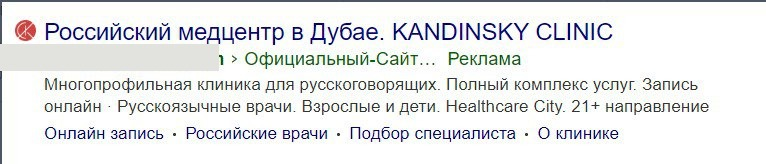
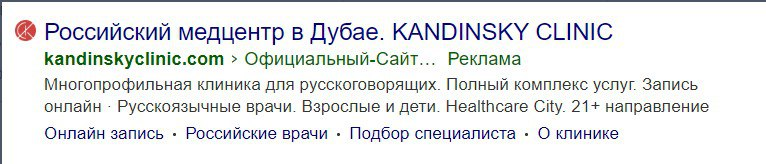
Кейс "Клиника в Дубае": оригиналы без замазывания, порядок слайдов, лайтбокс
По просьбе заказчика:
- скрины конкурентов и наших объявлений Директа/Google заменены на
  оригиналы без замазывания домена/логотипа конкурента;
- в галерее конкурентов второй слайд (по порядку показа) переставлен
  в конец;
- скрин главного экрана сайта клиники переснят: номер телефона теперь
  закрыт точно по границам цифр, а не грубым прямоугольником поверх
  иконки и рамки кнопки;
- скрины "Кампании в кабинете Яндекс Директа" и "...Google Ads"
  открываются в полный размер по клику.

Changed region(s): [[0.0, 0.2439, 0.3003, 0.4573]]

diff --git a/cases/klinika-dubai.html b/cases/klinika-dubai.html
@@ -202,8 +202,8 @@
         <div class="ab-case-step-image" style="padding:16px;">
           <div id="competitors-slider" style="position:relative;overflow:hidden;border-radius:10px;background:#fff;">
             <img src="../images/cases/klinika-dubai/competitor-ad-3.jpg" alt="Выдача конкурентов в Google по запросу «педиатр дубай»" width="1072" height="803" style="display:block;width:100%;height:auto;">
-            <img src="../images/cases/klinika-dubai/competitor-ad-1.jpg" alt="Объявление клиники-конкурента в Google" width="912" height="1280" style="display:none;width:100%;height:auto;">
             <img src="../images/cases/klinika-dubai/competitor-ad-2.jpg" alt="Объявление второго конкурента в Google" width="1280" height="638" style="display:none;width:100%;height:auto;">
+            <img src="../images/cases/klinika-dubai/competitor-ad-1.jpg" alt="Объявление клиники-конкурента в Google" width="912" height="1280" style="display:none;width:100%;height:auto;">
             <button type="button" aria-label="Предыдущий скрин" onclick="abSlide('competitors-slider',-1)" style="position:absolute;left:10px;top:50%;transform:translateY(-50%);width:36px;height:36px;border-radius:50%;border:none;background:rgba(23,21,18,0.55);color:#FFFFFF;font-size:18px;cursor:pointer;display:flex;align-items:center;justify-content:center">‹</button>
             <button type="button" aria-label="Следующий скрин" onclick="abSlide('competitors-slider',1)" style="position:absolute;right:10px;top:50%;transform:translateY(-50%);width:36px;height:36px;border-radius:50%;border:none;background:rgba(23,21,18,0.55);color:#FFFFFF;font-size:18px;cursor:pointer;display:flex;align-items:center;justify-content:center">›</button>
             <div class="ab-slide-counter" style="position:absolute;right:12px;bottom:10px;background:rgba(23,21,18,0.6);color:#FFFFFF;font-size:12px;padding:3px 10px;border-radius:999px">1 / 3</div>
@@ -260,13 +260,13 @@
           <p style="margin:0;font-size:17px;line-height:1.7;color:#3F3933;text-wrap:pretty;">В Google группы объединили по семантике внутри типов специалистов. Дневной бюджет 10 $ на кампанию на старте с оптимизацией конверсий, в Директе ручное управление ставками.</p>
           <figure class="ab-case-step-figure">
             <div class="ab-case-step-image" style="padding:16px;">
-              <img src="../images/cases/klinika-dubai/campaigns-yandex.jpg" alt="Кампании в кабинете Яндекс Директа" width="1280" height="435" style="display:block;width:100%;height:auto;">
+              <img src="../images/cases/klinika-dubai/campaigns-yandex.jpg" alt="Кампании в кабинете Яндекс Директа" width="1280" height="435" style="display:block;width:100%;height:auto;cursor:zoom-in;" role="button" tabindex="0" onclick="abOpenLightbox(this)" onkeydown="if(event.key==='Enter'||event.key===' '){event.preventDefault();abOpenLightbox(this);}">
             </div>
             <figcaption>Кампании в кабинете Яндекс Директа, 2023</figcaption>
           </figure>
           <figure class="ab-case-step-figure">
             <div class="ab-case-step-image" style="padding:16px;">
-              <img src="../images/cases/klinika-dubai/campaigns-google.jpg" alt="Кампании в кабинете Google Ads" width="1280" height="389" style="display:block;width:100%;height:auto;">
+              <img src="../images/cases/klinika-dubai/campaigns-google.jpg" alt="Кампании в кабинете Google Ads" width="1280" height="389" style="display:block;width:100%;height:auto;cursor:zoom-in;" role="button" tabindex="0" onclick="abOpenLightbox(this)" onkeydown="if(event.key==='Enter'||event.key===' '){event.preventDefault();abOpenLightbox(this);}">
             </div>
             <figcaption>Кампании в кабинете Google Ads, 2023</figcaption>
           </figure>
@@ -291,7 +291,7 @@
       </figure>
       <figure class="ab-case-step-figure">
         <div class="ab-case-step-image" style="padding:20px 24px;">
-          <img src="../images/cases/klinika-dubai/google-ad.jpg" alt="Объявление в Google" width="1125" height="304" style="display:block;width:100%;max-width:560px;height:auto;margin:0 auto;">
+          <img src="../images/cases/klinika-dubai/google-ad.jpg" alt="Объявление в Google" width="1125" height="313" style="display:block;width:100%;max-width:560px;height:auto;margin:0 auto;">
         </div>
         <figcaption>Объявление в Google, октябрь 2023</figcaption>
       </figure>
